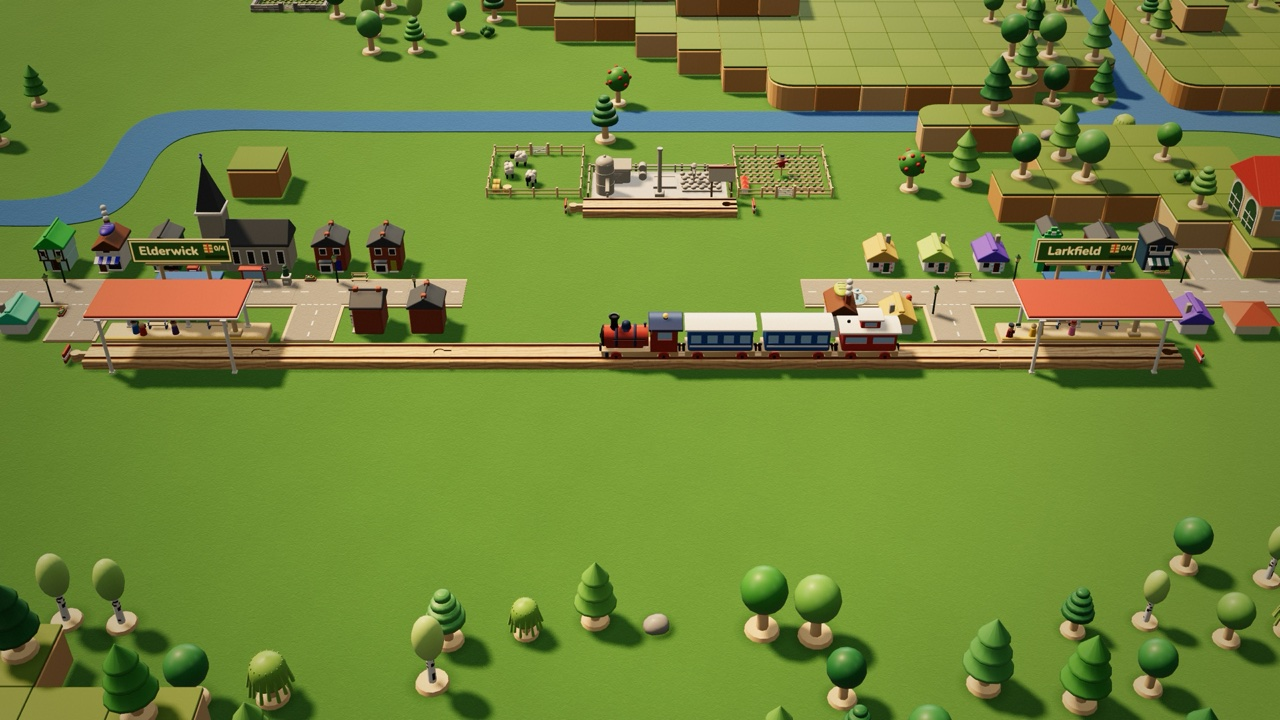
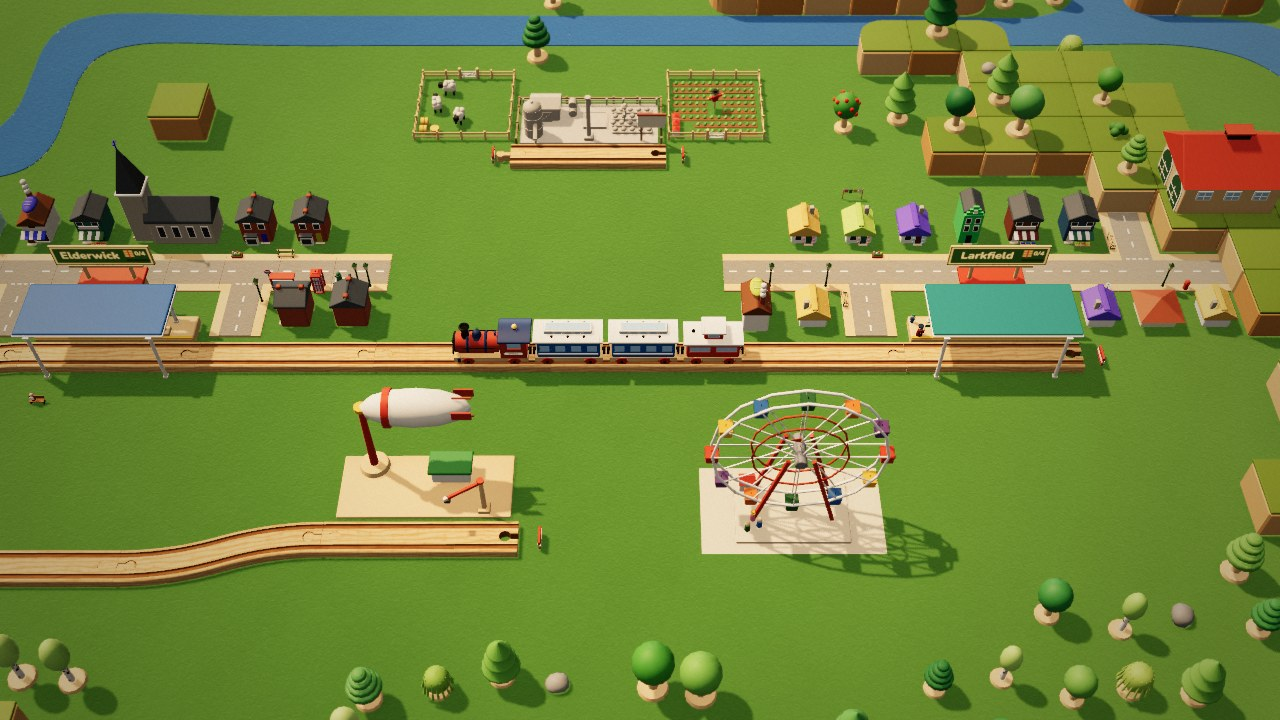
itch embed background: the World's Fair wheel and the airship below the first line
Too much grass under the train: the grass below the line now holds the World's Fair wheel and an airship at its mast,
joined to Elderwick by a branch, inside the middle of the picture itch shows behind Run game.
tools/shots/embed-bg.mjs makes it (and other options).

diff --git a/docs/itch-builds.md b/docs/itch-builds.md
@@ -39,7 +39,7 @@ ref.
 4. Release (above). The first butler push makes an `html5` channel. On the project's edit page, mark that
    upload as played in the browser and delete the hand-uploaded zip.
 
-The page's cover, screenshots, banner and embed background are in `itch-assets/` (screenshots under itch's 3 MB limit).
+The page's cover, screenshots, banner and embed background are in `itch-assets/` (screenshots under itch's 3 MB limit). The embed background (`embed-bg.jpg`, the starter line with the World's Fair wheel and the airship) is made by `tools/shots/embed-bg.mjs`; its header has the command.
 
 ## How the build differs
 
